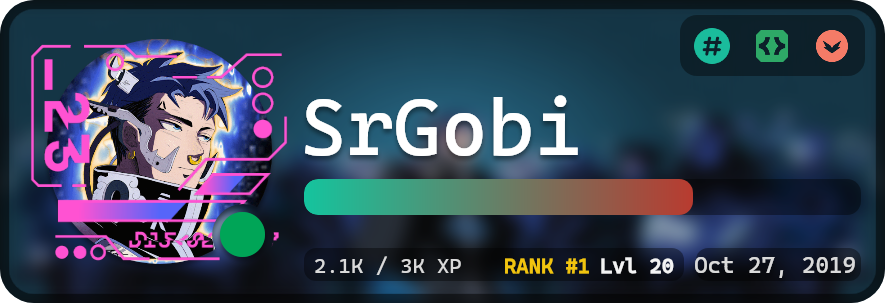
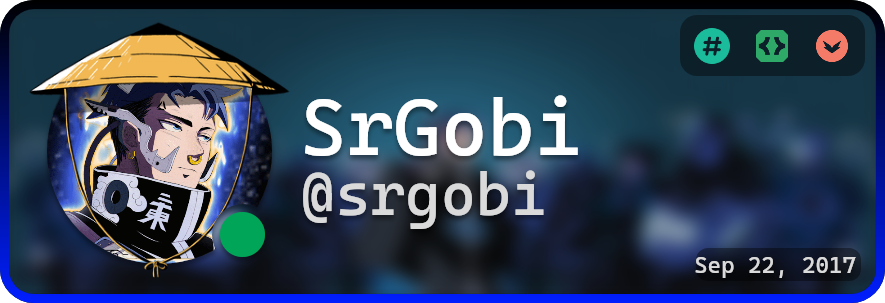
feat: Nuevas y actualizadas imagenes.

diff --git a/index.js b/index.js
@@ -11,19 +11,19 @@ const data = {
 	username: 'srgobi',
 	avatar: '73a9931eb6a7e430f394c513ade959e4',
 	discriminator: '0',
-	bot: true,
+	bot: false,
 	flags: 4194432,
 	banner:null,
 	accent_color: 3046143,
 	global_name: 'SrGobi',
 	avatar_decoration_data: {
-		asset: 'a_fed43ab12698df65902ba06727e20c0e',
+		asset: 'a_3d1e6078b2e4c8865e0ad0f429d651b1',
 		sku_id: '1144058844004233369',
 		expires_at: null
 	},
 	banner_color: '#00ffbb',
 	clan: null,
-	createdTimestamp: 1572183145164,
+	createdTimestamp: 1644105600000,
 	defaultAvatarURL: 'https://cdn.discordapp.com/embed/avatars/0.png',
 	avatarURL: 'https://cdn.discordapp.com/avatars/360881334647914506/73a9931eb6a7e430f394c513ade959e4.png',
 	bannerURL: 'https://i.imgur.com/Z2g5IMl.gif'
@@ -40,13 +40,13 @@ async function generateRankCard() {
 		.setRank(1, "RANK", true)
 		.setLevel(20, "LEVEL")
 		.setStatus("online")
-		.setProgressBar(["#14C49E", "#FF0000"], "GRADIENT", true)
+		.setProgressBar(["#22274a", "#001eff"], "GRADIENT", true)
 		.setUsername(data.global_name, data.discriminator, "#FFFFFF")
-		.setCreatedTimestamp(data.createdTimestamp, "IMPRESIONANTE")
-		.setBorder(["#14C49E", "#FF0000"], "vertical");
+		.setCreatedTimestamp(data.createdTimestamp)
+		.setBorder(["#000000", "#001eff"], "vertical");
 
 	const rankImage = await rank.build("Cascadia Code PL");
-	canvacard.write(rankImage, "./rank_1.png");
+	canvacard.write(rankImage, "./rank_3.png");
 }
 
 // Función para generar la tarjeta de Welcome
@@ -64,7 +64,7 @@ async function generateWelcomeCard() {
 		.setTypeOverlay('ROUNDED');
 
 	const welcomeImage = await welcome.build("Cascadia Code PL");
-	canvacard.write(welcomeImage, "./welcome_1.png");
+	canvacard.write(welcomeImage, "./welcome_5.png");
 }
 
 // Función para generar la tarjeta de Spotify
